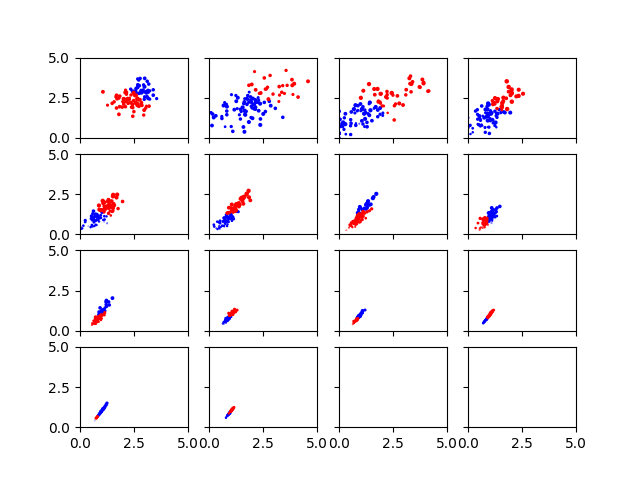
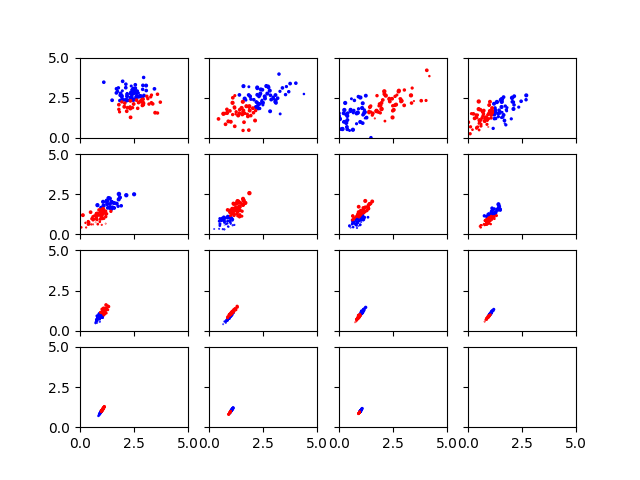
Add GMM & force BM vs. conditional BM

diff --git a/CMAES/cmaes_rosenbrock.py b/CMAES/cmaes_rosenbrock.py
@@ -3,6 +3,8 @@ import numpy as np
 import matplotlib.pyplot as plt
 from ipdb import set_trace
 from sklearn.mixture import GaussianMixture
+import heapq
+from copy import deepcopy
 
 NFE = 0
 
@@ -25,6 +27,7 @@ for g in range(generations):
     if hit: break
     if not hit:
         solutions = []
+        scores = []
         chromosomes = []
         for i in range(optimizer.population_size):
             point = optimizer.ask() # sample next chromosome   
@@ -37,17 +40,60 @@ for g in range(generations):
                 print("NFE = {}".format(NFE))
                 hit = True     
             solutions.append((point,score))
+            scores.append(score)
             chromosomes.append((point[0], point[1]))
-
+        
+        np.random.seed(1)
         EM = GaussianMixture( n_components = 2)
         EM.fit(chromosomes)
         cluster = EM.predict(chromosomes)
+        # print(cluster)
+
+        min_index_list = list(map(scores.index, heapq.nsmallest(100, scores)))
+        count_0 = 0
+        count_1 = 0
+        chromosomes_0 = []
+        chromosomes_1 = []
+
+        for i in range(100):
+            if cluster[min_index_list[i]] == 0 and count_0 <= 20:
+                chromosomes_0.append((solutions[min_index_list[i]], min_index_list[i]))
+                count_0 += 1
+            elif cluster[min_index_list[i]] == 1 and count_1 <= 20:
+                chromosomes_1.append((solutions[min_index_list[i]], min_index_list[i]))
+                count_1 += 1
+            elif count_0 <= 20 or count_1 <= 20:
+                continue
+            else:
+                break
+
+
+        for i in range(0):
+            # set_trace()
+            if g <= 5 and chromosomes_0[i][0][1] < chromosomes_1[i][0][1]:
+                temp = deepcopy(solutions[chromosomes_1[i][1]])
+                temp[0][0] = solutions[chromosomes_0[i][1]][0][0]
+                temp[0][1] = solutions[chromosomes_0[i][1]][0][1]
+                # if evaluate(temp[0]) < evaluate(solutions[chromosomes_1[i][1]][0]):
+                if True:
+                    print("+++++++++++++++++++")
+                    solutions[chromosomes_1[i][1]][0][0] = solutions[chromosomes_0[i][1]][0][0]
+                    solutions[chromosomes_1[i][1]][0][1] = solutions[chromosomes_0[i][1]][0][1]
+            elif g <= 5 and chromosomes_0[i][0][1] > chromosomes_1[i][0][1]:
+                temp = deepcopy(solutions[chromosomes_0[i][1]])
+                temp[0][0] = solutions[chromosomes_1[i][1]][0][0]
+                temp[0][1] = solutions[chromosomes_1[i][1]][0][1]
+                # if evaluate(temp[0]) < evaluate(solutions[chromosomes_0[i][1]][0]):
+                if True:
+                    print("#####################")
+                    solutions[chromosomes_0[i][1]][0][0] = solutions[chromosomes_1[i][1]][0][0]
+                    solutions[chromosomes_0[i][1]][0][1] = solutions[chromosomes_1[i][1]][0][1]
+
 
         index_1 = 0
         index_2 = 0
-
         for i in range(optimizer.population_size):
-            if cluster[i] == 1:
+            if cluster[i] == 0:
                 points_1[g, index_1] = points[g, i]
                 index_1 += 1
             else:
@@ -58,8 +104,8 @@ for g in range(generations):
 
 if not hit:
     print("not not not not not hit global optimal")
-    print("generations = {}".format(g+1))
-    print("NFE = {}".format(NFE))
+    # print("generations = {}".format(g+1))
+    # print("NFE = {}".format(NFE))
 
  
 # target = np.array([1, 1, 1])

diff --git a/CMAES/my_cmaes/_cma.py b/CMAES/my_cmaes/_cma.py
@@ -72,7 +72,7 @@ class CMA:
         sigma: float,
         bounds: Optional[np.ndarray] = None,
         n_max_resampling: int = 100,
-        seed: Optional[int] = None, 
+        seed: Optional[int] = 1, # None
         population_size: Optional[int] = 100, # None
         cov: Optional[np.ndarray] = None,
     ):

diff --git a/CMAES/test.py b/CMAES/test.py
@@ -1,0 +1,7 @@
+import heapq
+
+a = [10, 50, 2, 60, 55, 1]
+
+re2 = map(a.index, heapq.nlargest(3, a))
+
+print(list(re2))
